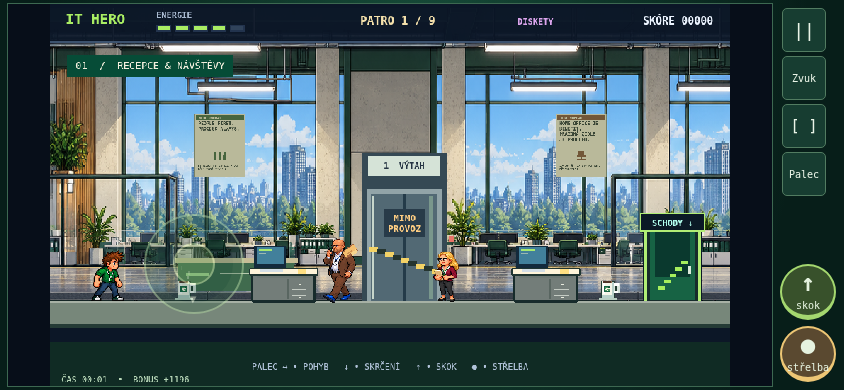
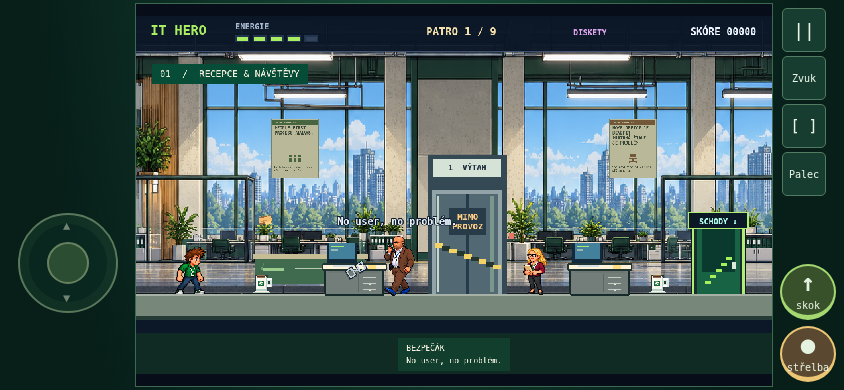
Move mobile thumb control outside canvas and add upward jump

diff --git a/index.html b/index.html
@@ -5,21 +5,21 @@
   <meta name="viewport" content="width=device-width, initial-scale=1, viewport-fit=cover">
   <meta name="theme-color" content="#111a2a">
   <title>IT HERO | Save the world — but first, coffee</title>
-  <link rel="stylesheet" href="style.css?v=0.15.0">
+  <link rel="stylesheet" href="style.css?v=0.15.1">
   <script defer src="vendor/phaser.min.js"></script>
-  <script defer src="character-dialogue.js?v=0.15.0"></script>
-  <script defer src="posters.js?v=0.15.0"></script>
-  <script defer src="item-textures.js?v=0.15.0"></script>
-  <script defer src="trio-attacks.js?v=0.15.0"></script>
-  <script defer src="enemy-catalog.js?v=0.15.0"></script>
-  <script defer src="dbpm.js?v=0.15.0"></script>
-  <script defer src="sap-integrator.js?v=0.15.0"></script>
-  <script defer src="it-colleague.js?v=0.15.0"></script>
-  <script defer src="gen-z-blockers.js?v=0.15.0"></script>
-  <script defer src="old-badger.js?v=0.15.0"></script>
-  <script defer src="touch-controls.js?v=0.15.0"></script>
-  <script defer src="gameplay.js?v=0.15.0"></script>
-  <script defer src="game.js?v=0.15.0"></script>
+  <script defer src="character-dialogue.js?v=0.15.1"></script>
+  <script defer src="posters.js?v=0.15.1"></script>
+  <script defer src="item-textures.js?v=0.15.1"></script>
+  <script defer src="trio-attacks.js?v=0.15.1"></script>
+  <script defer src="enemy-catalog.js?v=0.15.1"></script>
+  <script defer src="dbpm.js?v=0.15.1"></script>
+  <script defer src="sap-integrator.js?v=0.15.1"></script>
+  <script defer src="it-colleague.js?v=0.15.1"></script>
+  <script defer src="gen-z-blockers.js?v=0.15.1"></script>
+  <script defer src="old-badger.js?v=0.15.1"></script>
+  <script defer src="touch-controls.js?v=0.15.1"></script>
+  <script defer src="gameplay.js?v=0.15.1"></script>
+  <script defer src="game.js?v=0.15.1"></script>
 </head>
 <body>
   <main class="layout">
@@ -28,7 +28,7 @@
         <span class="eyebrow">PTG PIXEL OFFICE ARCADE</span>
         <h1>IT<span>HERO</span><small> / Save the world — but first, coffee</small></h1>
       </div>
-      <span class="version">BUILD 0.15.0</span>
+      <span class="version">BUILD 0.15.1</span>
     </header>
     <section id="play-area" class="play-area" aria-label="Herní plocha a ovládání">
     <div class="game-shell">
@@ -45,9 +45,9 @@
       <button type="button" id="touch-mode" data-mode="stick">Ovládání: palec</button>
     </div>
     <div id="touch-controls" class="touch-controls" role="group" aria-label="Dotykové ovládání hry" aria-describedby="touch-hint" hidden>
-      <div id="touch-stick-zone" class="touch-stick-zone" role="group" aria-label="Levý palec: tažením doleva a doprava pohyb, dolů skrčení a schody" aria-disabled="true" data-active="false">
-        <div id="touch-stick-base" class="touch-stick-base" aria-hidden="true"><span class="touch-stick-knob"></span><span class="touch-stick-down">▼</span></div>
-        <span class="touch-stick-hint" aria-hidden="true">↔ POHYB · ↓ SKRČENÍ / SCHODY</span>
+      <div id="touch-stick-zone" class="touch-stick-zone" role="group" aria-label="Levý palec: tažením doleva a doprava pohyb, nahoru skok, dolů skrčení a schody" aria-disabled="true" data-active="false">
+        <div id="touch-stick-base" class="touch-stick-base" aria-hidden="true"><span class="touch-stick-knob"></span><span class="touch-stick-up">▲</span><span class="touch-stick-down">▼</span></div>
+        <span class="touch-stick-hint" aria-hidden="true">↔ POHYB · ↑ SKOK · ↓ SCHODY</span>
       </div>
       <div class="touch-movement">
         <button type="button" data-touch-action="left" aria-label="Pohyb doleva" aria-pressed="false">◀</button>

diff --git a/style.css b/style.css
@@ -125,6 +125,7 @@ body{background:radial-gradient(ellipse at 50% -10%,#174c39 0%,transparent 65%),
 .touch-controls[data-movement="stick"] .touch-actions{align-self:flex-end;align-items:flex-end;padding-bottom:8px}
 .touch-stick-base{position:absolute;left:50%;top:50%;width:100px;height:100px;transform:translate(-50%,-50%);border:2px solid #b4d9a4;border-radius:50%;background:#103f3290;box-shadow:inset 0 0 0 9px #9ac17b22;opacity:.48;pointer-events:none}
 .touch-stick-knob{position:absolute;left:50%;top:50%;width:42px;height:42px;border:2px solid #d1efad;border-radius:50%;background:#95cb6e88;transform:translate(-50%,-50%) translate(var(--stick-dx,0px),var(--stick-dy,0px))}
+.touch-stick-up{position:absolute;left:43px;top:5px;font-size:12px;color:#e3f5d6}
 .touch-stick-down{position:absolute;left:43px;bottom:5px;font-size:12px;color:#e3f5d6}
 .touch-stick-hint{position:absolute;bottom:2px;left:8px;color:#b3d1b6;font-size:9px;pointer-events:none;white-space:nowrap}
 .touch-stick-zone[data-active="true"] .touch-stick-base{opacity:.9}
@@ -136,13 +137,15 @@ body{background:radial-gradient(ellipse at 50% -10%,#174c39 0%,transparent 65%),
  .touch-layout #touch-mode::after{content:'Palec';font-size:10px}
  .touch-layout #touch-mode[data-mode="buttons"]::after{content:'Tlač.'}
  .touch-layout .touch-toolbar{flex-wrap:nowrap}
- .touch-layout.touch-stick-layout .game-shell{width:calc(100% - var(--touch-rail));margin-left:0;margin-right:var(--touch-rail)}
- .touch-layout .touch-controls[data-movement="stick"] .touch-stick-zone{position:absolute;left:0;bottom:0;width:45%;height:64%;min-height:115px;pointer-events:auto}
+ .touch-layout.touch-stick-layout .play-area{--touch-left-rail:128px}
+ .touch-layout.touch-stick-layout .game-shell{width:calc(100% - var(--touch-left-rail) - var(--touch-rail));margin-left:var(--touch-left-rail);margin-right:var(--touch-rail)}
+ .touch-layout .touch-controls[data-movement="stick"] .touch-stick-zone{position:absolute;left:0;bottom:8px;width:calc(var(--touch-left-rail) - 8px);height:60%;min-height:150px;pointer-events:auto}
  .touch-layout .touch-controls[data-movement="stick"] .touch-stick-zone[aria-disabled="true"]{pointer-events:none}
  .touch-layout .touch-stick-hint{display:none}
  .touch-layout.touch-stick-layout .touch-actions{padding-bottom:0}
  .touch-layout.touch-stick-layout .touch-actions button{width:56px;min-height:56px;height:56px}
 }
 @media(max-width:650px) and (max-height:540px) and (orientation:landscape){
+ .touch-layout.touch-stick-layout .play-area{--touch-left-rail:112px}
  .touch-layout.touch-stick-layout .touch-actions button{width:48px;min-height:48px;height:48px}
 }

diff --git a/character-preview.html b/character-preview.html
@@ -4,25 +4,25 @@
   <meta charset="utf-8">
   <meta name="viewport" content="width=device-width, initial-scale=1">
   <title>IT HERO – porovnání postav</title>
-  <link rel="stylesheet" href="style.css?v=0.15.0">
+  <link rel="stylesheet" href="style.css?v=0.15.1">
   <script defer src="vendor/phaser.min.js"></script>
-  <script defer src="character-dialogue.js?v=0.15.0"></script>
-  <script defer src="item-textures.js?v=0.15.0"></script>
-  <script defer src="trio-attacks.js?v=0.15.0"></script>
-  <script defer src="enemy-catalog.js?v=0.15.0"></script>
-  <script defer src="dbpm.js?v=0.15.0"></script>
-  <script defer src="sap-integrator.js?v=0.15.0"></script>
-  <script defer src="it-colleague.js?v=0.15.0"></script>
-  <script defer src="gen-z-blockers.js?v=0.15.0"></script>
-  <script defer src="old-badger.js?v=0.15.0"></script>
-  <script defer src="character-dialogue-view.js?v=0.15.0"></script>
-  <script defer src="character-preview.js?v=0.15.0"></script>
+  <script defer src="character-dialogue.js?v=0.15.1"></script>
+  <script defer src="item-textures.js?v=0.15.1"></script>
+  <script defer src="trio-attacks.js?v=0.15.1"></script>
+  <script defer src="enemy-catalog.js?v=0.15.1"></script>
+  <script defer src="dbpm.js?v=0.15.1"></script>
+  <script defer src="sap-integrator.js?v=0.15.1"></script>
+  <script defer src="it-colleague.js?v=0.15.1"></script>
+  <script defer src="gen-z-blockers.js?v=0.15.1"></script>
+  <script defer src="old-badger.js?v=0.15.1"></script>
+  <script defer src="character-dialogue-view.js?v=0.15.1"></script>
+  <script defer src="character-preview.js?v=0.15.1"></script>
 </head>
 <body class="character-preview">
   <main class="layout">
     <header class="heading">
       <h1>Porovnání postav</h1>
-      <span class="version">BUILD 0.15.0</span>
+      <span class="version">BUILD 0.15.1</span>
     </header>
     <p>Všech patnáct postav ze hry ve skutečných herních proporcích. Každá řada má společnou podlahu.</p>
     <p><a href="#dialogue-heading">Přejít na hlášky postav a úpravy návrhů ↓</a></p>

diff --git a/touch-controls.js b/touch-controls.js
@@ -3,7 +3,7 @@
   'use strict';
   let preferred=null;
   let movementMode='stick';
-  const stickConfig={radius:46,deadZone:.25,downThreshold:.52,downDominance:1.1};
+  const stickConfig={radius:46,deadZone:.25,downThreshold:.52,upThreshold:.52,downDominance:1.1};
   function attach(scene){
     const panel=document.getElementById('touch-controls'),area=document.getElementById('play-area');
     if(!panel||!area)return null;
@@ -32,6 +32,7 @@
       const down=dy>stickConfig.radius*stickConfig.downThreshold;
       if(Math.abs(dx)>threshold&&!(down&&dy>Math.abs(dx)*stickConfig.downDominance))actions.add(dx<0?'left':'right');
       if(down)actions.add('crouch');
+      if(dy < -stickConfig.radius*stickConfig.upThreshold)actions.add('jump');
       for(const action of actions)if(!isDown(action))pressed.add(action);
       pointer.actions=actions;paint();
     }
@@ -74,7 +75,7 @@
         modeButton.dataset.mode=movementMode;
         modeButton.setAttribute('aria-label',movementMode==='stick'?'Přepnout na směrová tlačítka':'Přepnout na ovladač pod palcem');
       }
-      if(hint)hint.textContent=movementMode==='stick'?'Polož levý palec na ovladač a táhni vlevo nebo vpravo. Tažení dolů = skrčení, schody a odpojení HDD. Skok a střelba jsou napravo. Nejlépe na šířku.':'Drž ▼ pro skrčení; u schodů přejdeš dál a u HDD odpojíš disk. Pohyb, skok a střelbu můžeš kombinovat.';
+      if(hint)hint.textContent=movementMode==='stick'?'Polož levý palec na ovladač a táhni vlevo nebo vpravo. Tažení nahoru = skok, dolů = skrčení, schody a odpojení HDD. Střelba a další tlačítko skoku jsou napravo. Nejlépe na šířku.':'Drž ▼ pro skrčení; u schodů přejdeš dál a u HDD odpojíš disk. Pohyb, skok a střelbu můžeš kombinovat.';
       resetStick();requestAnimationFrame(refresh);
     }
     scene.scale.on('resize',placeStart);listeners.push(()=>scene.scale.off('resize',placeStart));

diff --git a/TOUCH_CONTROLS.md b/TOUCH_CONTROLS.md
@@ -1,4 +1,4 @@
-# Ovládání na mobilu a PC – 0.15.0
+# Ovládání na mobilu a PC – 0.15.1
 
 Stejná hra a stejný odkaz fungují s klávesnicí i dotykem. Na zařízení s dotykem
 se panel zobrazí automaticky. Tlačítkem „Dotykové ovládání“ pod hrou ho lze
@@ -6,13 +6,15 @@ zapnout i na PC nebo skrýt. Klávesnice funguje současně s dotykovým panelem
 
 ## Mobil: plovoucí ovladač pod palcem
 
-Výchozí režim je **Palec**. Polož levý palec do levé spodní části hry na šířku
+Výchozí režim je **Palec**. Polož levý palec do ovládacího pruhu vlevo od hry na šířku
 (nebo na ovládací plochu pod hrou na výšku). Střed ovladače vznikne v místě dotyku.
 
 - Táhni vlevo / vpravo: pohyb. Návrat ke středu: zastavení.
 - Táhni dolů: skrčení, u schodů další patro, u HDD podržení pro odpojení.
 - Převážně svislé tažení toleruje drobný pohyb do stran, takže hráč neujíždí od HDD.
-- Šikmo dolů: pomalý pohyb ve skrčení. Tažení nahoru neskáče.
+- Táhni nahoru: skok. Šikmo nahoru: skok při pohybu. Pro další skok vrať palec
+  ke středu a táhni znovu nahoru; držení nahoru neopakuje skok po dopadu.
+- Šikmo dolů: pomalý pohyb ve skrčení.
 - Pravé tlačítko ↑: skok; pravé ●: střelba, při držení opakovaná (i CD).
 - **Palec / Tlač.** v pravém panelu přepne na původní směrová tlačítka.
 - Pauza, zvuk a podporovaná celá obrazovka mají vlastní tlačítka.
@@ -23,8 +25,9 @@ změna režimu, otočení telefonu a ztráta zaměření uvolní všechny přís
 Při skrytí stránky se hra pozastaví; pokračování je ruční. Krátké klepnutí na
 střelbu se neztratí mezi snímky.
 
-Na šířku je průhledný levý ovladač přes spodní levou část plátna. Pravá tlačítka
-zůstávají mimo plátno, hra získává šířku původního levého pruhu. Na výšku je
+Na šířku je levý ovladač ve vlastním pruhu vedle plátna (128 px, na menších
+telefonech 112 px). Pravá tlačítka jsou také mimo plátno. Herní obraz zachovává
+poměr stran a využívá zbývající šířku, palce tedy nezakrývají dění. Na výšku je
 ovladač pod hrou. Přepnutí na tlačítka obnoví původní boční pruhy. Režim se
 zachová při restartu hry; obnovení stránky vybere znovu Palec.
 
@@ -55,7 +58,7 @@ jednoho způsobu vstupu nezruší jiný současně držený vstup.
 ## Nastavení palce
 
 `stickConfig` v `touch-controls.js`: poloměr 46 CSS pixelů, mrtvá zóna 25 %,
-práh dolů 52 % a převaha svislého směru 1,1. Tyto hodnoty ovlivňují citlivost,
+práh nahoru i dolů 52 % a převaha svislého směru 1,1. Tyto hodnoty ovlivňují citlivost,
 nikoli rychlost hráče. Jeden aktivní prst řídí pohyb; ostatní mohou mačkat akce.
 Rozměry a umístění ovladače upravují `.touch-stick-*` v `style.css`.
 
@@ -73,9 +76,10 @@ node tests/gameplay.cjs
 ```
 
 Nový test posílá skutečné vícebodové dotyky přes Chromium DevTools Protocol:
-plovoucí střed, mrtvá zóna, všechny směry, tři prsty, zachycení mimo plochu,
+plovoucí střed, mrtvá zóna, všechny směry, jeden skok na gesto, tři prsty, zachycení mimo plochu,
 zrušení, pauza a otočení. Ověřuje přeskočení Gen Z, schody i úplné odpojení HDD
 s malou vodorovnou odchylkou palce. Samostatný test zachovává kontrolu původních
 tlačítek a klávesnice. Layouty 390×844, 320×568, 844×390 a 568×320 kontrolují
-minimálně 44px cíle, dostupnost pravých tlačítek a chybějící vodorovné přetečení.
+minimálně 44px cíle, dostupnost pravých tlačítek, umístění kolečka mimo obraz
+i ve fullscreenu a chybějící vodorovné přetečení.
 Fyzický telefon zde nebyl k dispozici; ověření proběhlo v emulaci prohlížeče.
